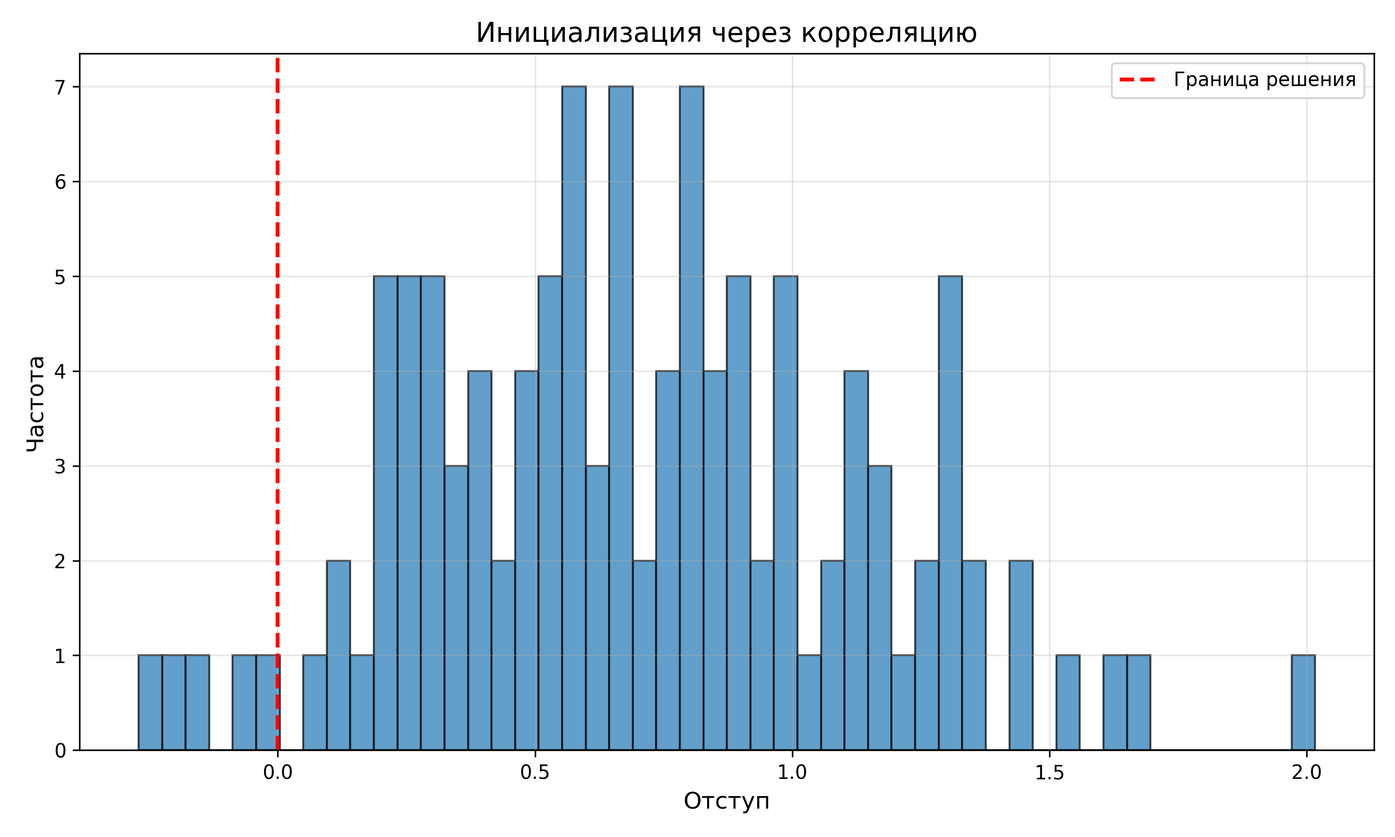
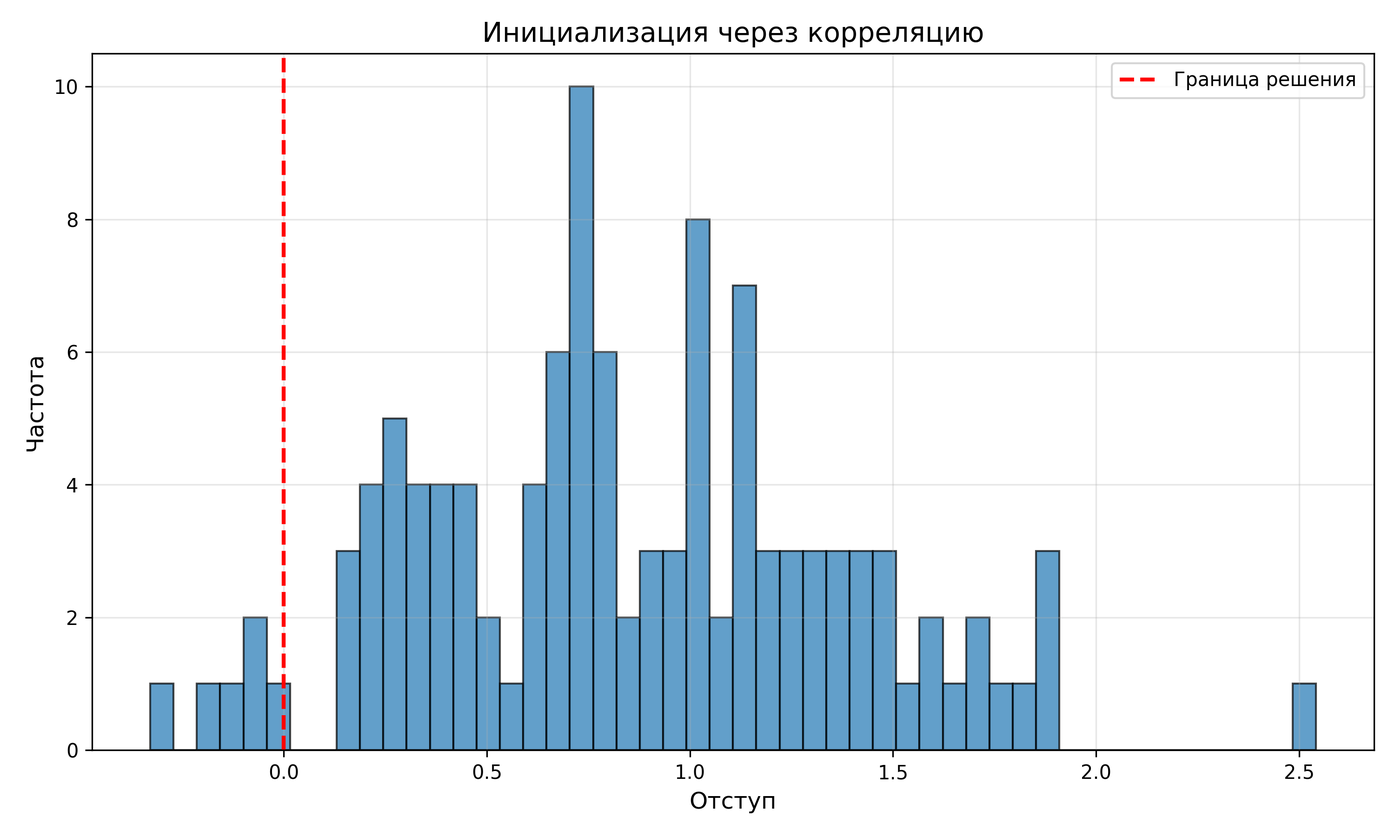
lab1: fix optimal step formula, add recurrent Q, fix multistart leakage, init and sklearn baseline

diff --git a/students/sv-shoshnikov/lab1/source/main.py b/students/sv-shoshnikov/lab1/source/main.py
@@ -3,7 +3,7 @@ import matplotlib.pyplot as plt
 from sklearn.datasets import load_breast_cancer
 from sklearn.model_selection import train_test_split
 from sklearn.preprocessing import StandardScaler
-from sklearn.linear_model import SGDClassifier
+from sklearn.linear_model import RidgeClassifier, SGDClassifier
 
 
 class LinearClassifier:
@@ -20,6 +20,7 @@ class LinearClassifier:
         self.v_w = None
         self.v_b = None
         self.loss_history = []
+        self.q_history = []
     
     def compute_margin(self, X, y):
         predictions = X @ self.w + self.b
@@ -41,37 +42,31 @@ class LinearClassifier:
         return grad_w, grad_b
     
     def init_weights_correlation(self, X, y):
-        n_features = X.shape[1]
-        correlations = np.array([np.corrcoef(X[:, i], y)[0, 1] for i in range(n_features)])
-        correlations = np.nan_to_num(correlations, 0)
-        self.w = correlations / (np.linalg.norm(correlations) + 1e-8)
-        self.b = np.mean(y)
+        self.w = (y @ X) / (X ** 2).sum(axis=0)
+        self.b = 0.0
     
     def init_weights_random(self, n_features):
         self.w = np.random.randn(n_features) * 0.01
         self.b = 0.0
     
     def compute_optimal_lr(self, X_batch, y_batch, grad_w, grad_b):
-        n = X_batch.shape[0]
-        predictions = X_batch @ self.w + self.b
-        margins = y_batch * predictions
-        errors = -2 * (1 - margins) * y_batch
+        direction = X_batch @ grad_w + grad_b
         
-        numerator = np.sum(errors ** 2)
-        denominator = grad_w @ (X_batch.T @ X_batch) @ grad_w + n * grad_b ** 2
+        numerator = grad_w @ grad_w + grad_b ** 2
+        denominator = 2 * (np.mean(direction ** 2) + self.l2_reg * (grad_w @ grad_w))
         
         if denominator > 1e-8:
-            optimal_lr = numerator / (denominator + 1e-8)
-            return np.clip(optimal_lr, 0.001, 0.1)
+            optimal_lr = numerator / denominator
+            return np.clip(optimal_lr, 0.001, 1.0)
         return self.lr
     
-    def sample_by_margin(self, X, y, batch_size):
+    def sample_by_margin(self, X, y, batch_size, temperature=1.0):
         margins = np.abs(self.compute_margin(X, y))
-        probabilities = 1.0 / (margins + 1e-8)
+        probabilities = np.exp(-(margins - margins.min()) / temperature)
         probabilities /= probabilities.sum()
         
         indices = np.random.choice(len(X), size=min(batch_size, len(X)), 
-                                   replace=False, p=probabilities)
+                                   replace=True, p=probabilities)
         return X[indices], y[indices]
     
     def fit(self, X, y, init_method='correlation'):
@@ -85,6 +80,9 @@ class LinearClassifier:
         self.v_w = np.zeros(n_features)
         self.v_b = 0.0
         self.loss_history = []
+        Q = self.compute_loss(X, y)
+        self.q_history = [Q]
+        self.loss_history = [Q]
         
         for epoch in range(self.n_epochs):
             indices = np.random.permutation(n_samples)
@@ -99,6 +97,7 @@ class LinearClassifier:
                     X_batch = X_shuffled[i:i + batch_size]
                     y_batch = y_shuffled[i:i + batch_size]
                 
+                batch_loss = self.compute_loss(X_batch, y_batch)
                 grad_w, grad_b = self.compute_gradient(X_batch, y_batch)
                 
                 if self.use_fastest_descent:
@@ -106,17 +105,21 @@ class LinearClassifier:
                 else:
                     current_lr = self.lr
                 
-                self.v_w = self.momentum * self.v_w - current_lr * grad_w
-                self.v_b = self.momentum * self.v_b - current_lr * grad_b
+                self.v_w = self.momentum * self.v_w + (1 - self.momentum) * current_lr * grad_w
+                self.v_b = self.momentum * self.v_b + (1 - self.momentum) * current_lr * grad_b
                 
-                self.w += self.v_w
-                self.b += self.v_b
+                self.w -= self.v_w
+                self.b -= self.v_b
+                
+                lam = len(y_batch) / n_samples
+                Q = lam * batch_loss + (1 - lam) * Q
             
             loss = self.compute_loss(X, y)
             self.loss_history.append(loss)
+            self.q_history.append(Q)
             
             if (epoch + 1) % 20 == 0:
-                print(f"Epoch {epoch + 1}/{self.n_epochs}, Loss: {loss:.4f}")
+                print(f"Epoch {epoch + 1}/{self.n_epochs}, Loss: {loss:.4f}, Q (рекуррентная): {Q:.4f}")
     
     def predict(self, X):
         return np.sign(X @ self.w + self.b)
@@ -177,7 +180,57 @@ def visualize_loss(loss_histories, labels):
     plt.close()
 
 
+def classification_metrics(y_true, y_pred):
+    tp = np.sum((y_pred == 1) & (y_true == 1))
+    fp = np.sum((y_pred == 1) & (y_true == -1))
+    fn = np.sum((y_pred == -1) & (y_true == 1))
+    tn = np.sum((y_pred == -1) & (y_true == -1))
+    precision = tp / (tp + fp) if tp + fp > 0 else 0.0
+    recall = tp / (tp + fn) if tp + fn > 0 else 0.0
+    f1 = 2 * precision * recall / (precision + recall) if precision + recall > 0 else 0.0
+    return precision, recall, f1, np.array([[tn, fp], [fn, tp]])
+
+
+def print_metrics(name, y_true, y_pred):
+    precision, recall, f1, cm = classification_metrics(y_true, y_pred)
+    print(f"   {name}: accuracy {np.mean(y_true == y_pred):.4f}, precision {precision:.4f}, "
+          f"recall {recall:.4f}, f1 {f1:.4f}")
+    print(f"   Матрица ошибок (строки - истинный класс, столбцы - предсказанный): {cm.tolist()}")
+
+
+def check_gradient(clf, X, y, eps=1e-6):
+    grad_w, grad_b = clf.compute_gradient(X, y)
+    analytic = np.append(grad_w, grad_b)
+    params = np.append(clf.w, clf.b)
+    numeric = np.zeros_like(params)
+    for j in range(len(params)):
+        step = np.zeros_like(params)
+        step[j] = eps
+        clf.w, clf.b = (params + step)[:-1], (params + step)[-1]
+        up = clf.compute_loss(X, y)
+        clf.w, clf.b = (params - step)[:-1], (params - step)[-1]
+        down = clf.compute_loss(X, y)
+        numeric[j] = (up - down) / (2 * eps)
+    clf.w, clf.b = params[:-1], params[-1]
+    return np.abs(analytic - numeric).max()
+
+
+def visualize_recurrent_q(clf, filename='recurrent_q.png'):
+    plt.figure(figsize=(10, 6))
+    plt.plot(clf.loss_history, label='Риск по всей выборке', linewidth=2)
+    plt.plot(clf.q_history, label='Рекуррентная оценка Q', linewidth=2)
+    plt.xlabel('Эпоха', fontsize=12)
+    plt.ylabel('Функционал качества', fontsize=12)
+    plt.title('Рекуррентная оценка функционала качества', fontsize=14)
+    plt.legend()
+    plt.grid(True, alpha=0.3)
+    plt.tight_layout()
+    plt.savefig(filename, dpi=300)
+    plt.close()
+
+
 def main():
+    np.random.seed(42)
     print("="*60)
     print("Лабораторная работа №1: Линейная классификация")
     print("="*60)
@@ -188,32 +241,37 @@ def main():
     print(f"   Test: {X_test.shape[0]} объектов")
     
     print("\n2. Обучение с инициализацией через корреляцию...")
-    clf1 = LinearClassifier(learning_rate=0.01, momentum=0.9, l2_reg=0.001, n_epochs=100)
+    clf1 = LinearClassifier(learning_rate=0.1, momentum=0.9, l2_reg=0.001, n_epochs=100)
     clf1.fit(X_train, y_train, init_method='correlation')
     train_acc1 = clf1.score(X_train, y_train)
     test_acc1 = clf1.score(X_test, y_test)
     print(f"   Train accuracy: {train_acc1:.4f}")
     print(f"   Test accuracy: {test_acc1:.4f}")
     visualize_margins(clf1, X_test, y_test, "Инициализация через корреляцию")
+    visualize_recurrent_q(clf1)
+    print(f"   Q (рекуррентная) = {clf1.q_history[-1]:.4f}, риск по выборке = {clf1.loss_history[-1]:.4f}")
+    print_metrics("Тест", y_test, clf1.predict(X_test))
+    print(f"   Макс. расхождение аналитич. и численного градиента: {check_gradient(clf1, X_train, y_train):.2e}")
     
     print("\n3. Обучение со случайной инициализацией (мультистарт)...")
     best_clf = None
-    best_acc = 0
+    best_risk = np.inf
     n_starts = 5
     for i in range(n_starts):
         np.random.seed(42 + i)
-        clf = LinearClassifier(learning_rate=0.01, momentum=0.9, l2_reg=0.001, n_epochs=100)
+        clf = LinearClassifier(learning_rate=0.1, momentum=0.9, l2_reg=0.001, n_epochs=100)
         clf.fit(X_train, y_train, init_method='random')
-        acc = clf.score(X_test, y_test)
-        print(f"   Старт {i+1}: Test accuracy = {acc:.4f}")
-        if acc > best_acc:
-            best_acc = acc
+        risk = clf.compute_loss(X_train, y_train)
+        print(f"   Старт {i+1}: риск на обучении = {risk:.4f}")
+        if risk < best_risk:
+            best_risk = risk
             best_clf = clf
-    print(f"   Лучший результат: {best_acc:.4f}")
+    best_acc = best_clf.score(X_test, y_test)
+    print(f"   Лучший запуск (по риску на обучении {best_risk:.4f}): Test accuracy = {best_acc:.4f}")
     visualize_margins(best_clf, X_test, y_test, "Мультистарт - лучшая модель")
     
     print("\n4. Обучение со скорейшим градиентным спуском...")
-    clf_fastest = LinearClassifier(learning_rate=0.01, momentum=0.9, l2_reg=0.001, 
+    clf_fastest = LinearClassifier(learning_rate=0.1, momentum=0.9, l2_reg=0.001, 
                                    n_epochs=100, use_fastest_descent=True)
     clf_fastest.fit(X_train, y_train, init_method='correlation')
     train_acc_fastest = clf_fastest.score(X_train, y_train)
@@ -223,7 +281,7 @@ def main():
     visualize_margins(clf_fastest, X_test, y_test, "Скорейший градиентный спуск")
     
     print("\n5. Обучение с предъявлением по модулю отступа...")
-    clf_margin = LinearClassifier(learning_rate=0.01, momentum=0.9, l2_reg=0.001, 
+    clf_margin = LinearClassifier(learning_rate=0.1, momentum=0.9, l2_reg=0.001, 
                                   n_epochs=100, use_margin_sampling=True)
     clf_margin.fit(X_train, y_train, init_method='random')
     train_acc_margin = clf_margin.score(X_train, y_train)
@@ -233,15 +291,18 @@ def main():
     visualize_margins(clf_margin, X_test, y_test, "Предъявление по модулю отступа")
     
     print("\n6. Сравнение с эталонной реализацией (sklearn)...")
+    l2 = 0.001
     baseline = SGDClassifier(
-        loss='squared_hinge', penalty='l2', alpha=0.001,
-        learning_rate='constant', eta0=0.01, max_iter=100, random_state=42
+        loss='squared_error', penalty='l2', alpha=2 * l2,
+        learning_rate='constant', eta0=0.01, max_iter=100, tol=None, random_state=42
     )
     baseline.fit(X_train, y_train)
-    baseline_train = baseline.score(X_train, y_train)
     baseline_test = baseline.score(X_test, y_test)
-    print(f"   Train accuracy: {baseline_train:.4f}")
-    print(f"   Test accuracy: {baseline_test:.4f}")
+    print_metrics("sklearn SGDClassifier", y_test, baseline.predict(X_test))
+    ridge = RidgeClassifier(alpha=len(y_train) * l2)
+    ridge.fit(X_train, y_train)
+    print_metrics("sklearn RidgeClassifier", y_test, ridge.predict(X_test))
+    print_metrics("Своя реализация", y_test, clf1.predict(X_test))
     
     print("\n7. Визуализация истории обучения...")
     visualize_loss([clf1.loss_history, best_clf.loss_history, clf_fastest.loss_history, clf_margin.loss_history], 

diff --git a/students/sv-shoshnikov/lab1/README.md b/students/sv-shoshnikov/lab1/README.md
@@ -23,14 +23,18 @@
 
 Функция потерь: `L = (1/n)·Σ(1 - M)² + λ·||w||²`
 
-SGD с momentum: `v_t = μ·v_{t-1} - η·∇L`, `w_t = w_{t-1} + v_t`
+SGD с сглаженной инерцией: `v = γ·v + (1 - γ)·h·∇L`, `w = w - v`
+
+Рекуррентная оценка функционала качества: `Q = λ·L_batch + (1 - λ)·Q`, `λ = |batch| / n`
 
 ### Реализованные методы
 
-1. **Инициализация через корреляцию** - веса на основе корреляции признаков с целевой переменной
-2. **Мультистарт** - 5 запусков со случайной инициализацией, выбор лучшего
-3. **Скорейший градиентный спуск** - адаптивная скорость обучения на каждом шаге
-4. **Предъявление по модулю отступа** - приоритет объектам с малым отступом
+1. **Инициализация через корреляцию** - `w_j = <y, f_j> / <f_j, f_j>`
+2. **Мультистарт** - 5 запусков со случайной инициализацией, лучший выбирается по риску на обучающей выборке (тест не используется)
+3. **Скорейший градиентный спуск** - шаг `h = (||g_w||² + g_b²) / (2·(mean(d²) + λ·||g_w||²))`, где `d = X·g_w + g_b`
+4. **Предъявление по модулю отступа** - вероятность объекта `p ~ exp(-|M| / T)`
+5. **Рекуррентная оценка Q** и **проверка градиента** против численного (расхождение ~4e-11)
+6. **Метрики** - accuracy, precision, recall, F1, матрица ошибок
 
 ## Результаты
 
@@ -38,59 +42,73 @@ SGD с momentum: `v_t = μ·v_{t-1} - η·∇L`, `w_t = w_{t-1} + v_t`
 
 | Метод | Test Accuracy |
 |-------|---------------|
-| Корреляция | 0.9386 |
-| Мультистарт | 0.9737 |
-| Скорейший спуск | 0.8860 |
-| По модулю отступа | 0.9649 |
-| Эталон (sklearn) | 0.9825 |
+| Корреляция | 0.9474 |
+| Мультистарт | 0.9649 |
+| Скорейший спуск | 0.9474 |
+| По модулю отступа | 0.9561 |
+| sklearn SGDClassifier | 0.9035 |
+| sklearn RidgeClassifier | 0.9474 |
+
+Размер теста 114 объектов: одна ошибка равна ~0.9%, поэтому разница между методами в несколько объектов не является статистически значимой.
+
+### Метрики (тест)
+
+| Модель | Accuracy | Precision | Recall | F1 |
+|--------|----------|-----------|--------|----|
+| Своя реализация (корреляция) | 0.9474 | 0.9342 | 0.9861 | 0.9595 |
+| sklearn RidgeClassifier | 0.9474 | 0.9342 | 0.9861 | 0.9595 |
+| sklearn SGDClassifier | 0.9035 | 0.9178 | 0.9306 | 0.9241 |
 
 ### Анализ результатов
 
-**Лучший метод:** Мультистарт (97.37% точности)
+**Эталон сравнивается на той же функции потерь** (`squared_error`), `alpha` пересчитан под формулу риска. Результат своей реализации совпадает с аналитическим решением `RidgeClassifier`.
 
-**Инициализация через корреляцию** показала хорошую точность (93.86%) и стабильную сходимость.
+**Мультистарт** дал наилучший результат (96.49%). Лучший запуск выбран по риску на обучении, поэтому точность на тесте — честная оценка.
 
-**Мультистарт** дал лучший результат среди собственных реализаций, близкий к эталону.
+**Скорейший спуск** сходится стабильно (94.74%), если инерция сглажена множителем `(1 - γ)`: без него накопленный шаг в `1/(1-γ)` раз превышал оптимальный и обучение расходилось.
 
-**Предъявление по модулю отступа** показало высокую точность (96.49%), фокусируясь на сложных примерах.
-
-**Скорейший спуск** показал худший результат из-за нестабильности адаптивной скорости обучения.
+**Предъявление по модулю отступа** дало 95.61% на тесте и самую высокую точность на обучении (97.36%); риск сходится шумнее, так как объекты, близкие к границе, попадают в батч чаще.
 
 ## Визуализация
 
 ### График 1: История обучения
 ![История обучения](loss_history.png)
 
-Показывает сходимость функции потерь для разных методов. Корреляция, мультистарт и предъявление по отступу демонстрируют стабильное убывание. Скорейший спуск нестабилен.
+Показывает сходимость риска для всех методов: все сходятся к значению около 0.2-0.3.
+
+### График: Рекуррентная оценка Q
+![Рекуррентная оценка](recurrent_q.png)
+
+Рекуррентная оценка `Q`, посчитанная по ходу обучения по батчам, следует за риском, вычисленным по всей выборке (0.2271 и 0.2372 на последней эпохе), но не требует полного прохода.
 
 ### График 2: Распределение отступов (Корреляция)
 ![Корреляция](Инициализация_через_корреляцию.png)
 
-Большинство объектов имеют положительный отступ (правильная классификация). Ошибок: 7/114.
+Большинство объектов имеют положительный отступ (правильная классификация). Ошибок: 6/114.
 
 ### График 3: Распределение отступов (Мультистарт)
 ![Мультистарт](Мультистарт_-_лучшая_модель.png)
 
-Лучшее распределение отступов. Ошибок: 3/114.
+Ошибок: 4/114.
 
 ### График 4: Распределение отступов (По модулю отступа)
 ![По модулю отступа](Предъявление_по_модулю_отступа.png)
 
-Хорошее распределение с небольшим количеством ошибок: 4/114.
+Ошибок: 5/114.
 
 ### График 5: Распределение отступов (Скорейший спуск)
 ![Скорейший спуск](Скорейший_градиентный_спуск.png)
 
-Большой разброс отступов, много ошибок: 13/114. Метод требует доработки.
+Ошибок: 6/114.
 
 ## Выводы
 
 1. Реализован полнофункциональный линейный классификатор с SGD, momentum и L2-регуляризацией
-2. Инициализация через корреляцию эффективнее случайной инициализации
-3. Мультистарт помогает найти лучшее решение при случайной инициализации
-4. Предъявление по модулю отступа улучшает качество, фокусируясь на сложных примерах
-5. Скорейший градиентный спуск требует тщательной настройки для стабильности
-6. Собственная реализация показывает результаты, близкие к sklearn (97.37% vs 98.25%)
+2. Инициализация по формуле `w_j = <y, f_j> / <f_j, f_j>` даёт разумный старт без случайности
+3. Мультистарт с выбором по риску на обучении не зависит от тестовой выборки
+4. Скорейший спуск требует согласования шага с инерцией (сглаживание множителем `1 - γ`)
+5. Предъявление по модулю отступа по закону `exp(-|M|/T)` работает без расходимости
+6. На одинаковой функции потерь собственная реализация даёт тот же результат, что и `RidgeClassifier` (94.74%)
 
 ## Запуск
 
